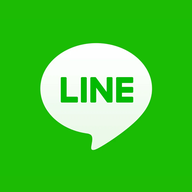
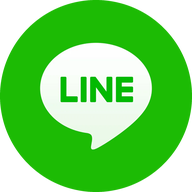
feat(root): 通常アイコン（192/512）を周りが透明な丸い形に作り直し、CACHE_NAME を v29 に更新

diff --git a/service-worker.js b/service-worker.js
@@ -1,4 +1,4 @@
-const CACHE_NAME = 'lime-cache-v28';
+const CACHE_NAME = 'lime-cache-v29';
 const PRECACHE_URLS = [
   './index.html',
   './manifest.json',
